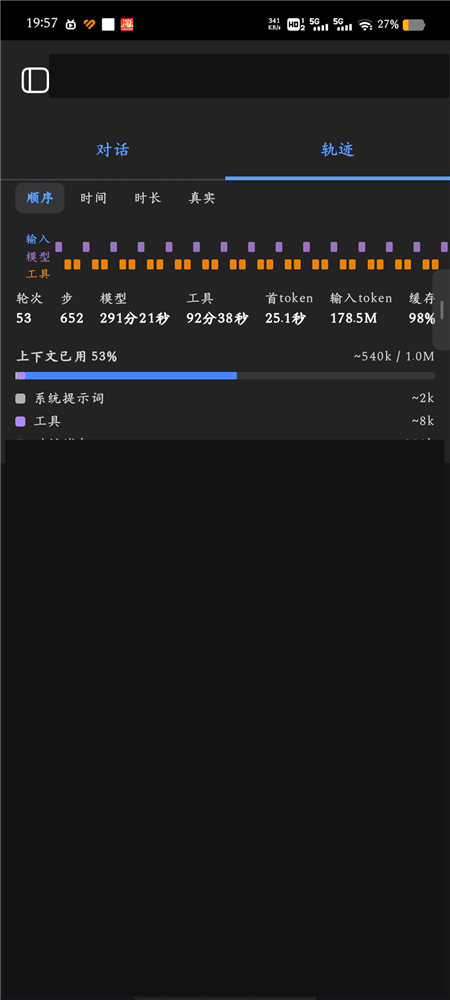
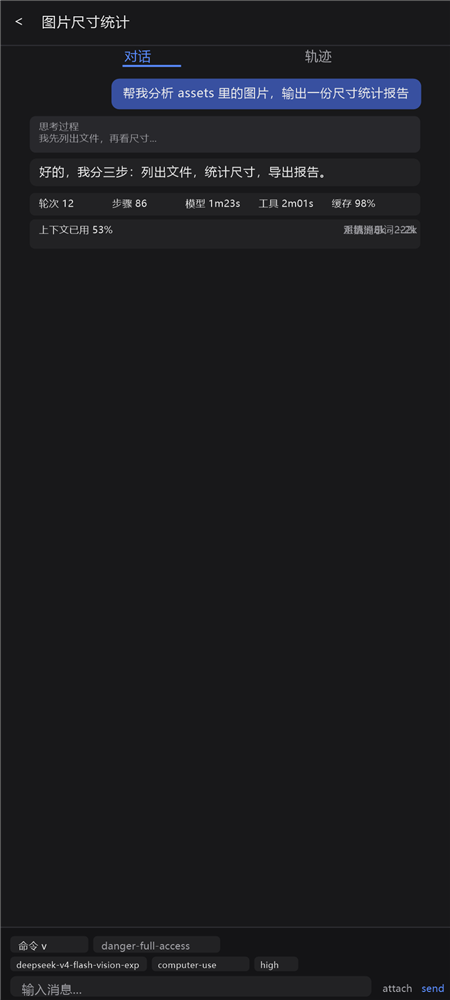
docs: replace over-redacted screenshots with fully-rendered demo conversations (streaming, tool call, todo, deliverables, decision cards, session list, file browser)

diff --git a/README.md b/README.md
@@ -76,14 +76,14 @@
 
 ### 对话 / 轨迹
 
-> ![对话视图](docs/screenshots/chat.png) 　 ![对话 + 输入区](docs/screenshots/chat-input.png)
+> ![对话视图](docs/screenshots/chat.png) 　 ![工具调用 / Todo / 产物](docs/screenshots/chat-tools.png)
 
 - **对话 / 轨迹双标签**：顶部可切换「对话」和「轨迹」两个视图。
 - **流式输出**：助手正文与思考过程（reasoning）实时逐字显示。
 - **Markdown 渲染**：标题、粗体、行内代码（灰底）、代码块、链接、多级列表、引用、勾选清单。
 - **Todo 清单**：模型的任务列表实时展示进度。
 - **工具调用卡**：终端命令、文件编辑（diff）、搜索、网页抓取等工具，都折叠成可展开的卡片。
-- **产物列表**：每个回合结束，自动列出本回合新建/修改的文件路径（如 `pelican_bike.html`）。
+- **产物列表**：每个回合结束，自动列出本回合新建/修改的文件路径（如 `image_report.html`）。
 - **图片缩略图**：对话里的图片（你发或 AI 生成的）以**缩略图**形式显示，**点击即可全屏放大查看清晰原图**。
 - **分支（Fork）与复制**：对任意一条消息一键 fork 出子会话，或复制其文本。
 
@@ -99,7 +99,7 @@
 
 ### 输入区
 
-> ![输入区](docs/screenshots/chat-input.png)
+> ![输入区](docs/screenshots/chat-decisions.png)
 
 - **命令 / 权限选择器**：底部可直接切换**权限预设**（read-only / workspace-write / danger-full-access），并列出当前生效的命令。
 - **模型选择**：切换 provider / model（如 `deepseek-v4-flash-vision-exp`），并可设推理强度（如 `high`）。
@@ -107,6 +107,8 @@
 - **消息输入**：输入框 + 发送按钮；以 `/` 开头的行会走**宿生命令通道**（`/plan`、`/goal`、`/permission` 等），而不是当普通消息发。
 
 ### 决策交互（内联卡片）
+
+> ![决策卡片](docs/screenshots/chat-decisions.png)
 
 计划审批、工具批准、AI 提问这三类决策，都以**卡片形式内联在对话流底部**，不会弹窗盖住聊天内容：
 

diff --git a/README.en.md b/README.en.md
@@ -79,14 +79,14 @@ Below is everything the app can do, organized by screen (v1.4.4).
 
 ### Chat / Trajectory
 
-> ![Chat view](docs/screenshots/chat.png)  ![Chat + composer](docs/screenshots/chat-input.png)
+> ![Chat view](docs/screenshots/chat.png)  ![Tool call / Todo / deliverables](docs/screenshots/chat-tools.png)
 
 - **Chat / Trajectory tabs**: switch between the conversation and the trajectory view at the top.
 - Streaming output for both the assistant text and its reasoning.
 - Markdown rendering: headings, bold, inline code (grey box), code blocks, links, multi-level lists, quotes, task lists.
 - Live todo list from the model.
 - Tool cards for terminal commands, file edits (diff), search, and web fetches.
-- Deliverables: at the end of each turn, the files created/modified are listed (e.g. `pelican_bike.html`).
+- Deliverables: at the end of each turn, the files created/modified are listed (e.g. `image_report.html`).
 - **Image thumbnails**: images in the conversation render as thumbnails; **tap to open the full-resolution original**.
 - Fork & copy on any message.
 
@@ -102,7 +102,7 @@ A three-lane (input / model / tools) timeline with per-turn details:
 
 ### Composer
 
-> ![Composer](docs/screenshots/chat-input.png)
+> ![Composer](docs/screenshots/chat-decisions.png)
 
 - **Command / permission selector**: switch permission presets (read-only / workspace-write / danger-full-access) and see the active command.
 - **Model selection**: switch provider / model (e.g. `deepseek-v4-flash-vision-exp`) and set reasoning effort (e.g. `high`).
@@ -110,6 +110,8 @@ A three-lane (input / model / tools) timeline with per-turn details:
 - **Message input**: input box + send button; lines starting with `/` go through the **host command channel** (`/plan`, `/goal`, `/permission`, etc.), not as plain text.
 
 ### Decision cards (inline)
+
+> ![Decision cards](docs/screenshots/chat-decisions.png)
 
 Plan review, tool approval, and AI questions render as **inline cards at the bottom of the conversation** — never as a modal covering the chat:
 
